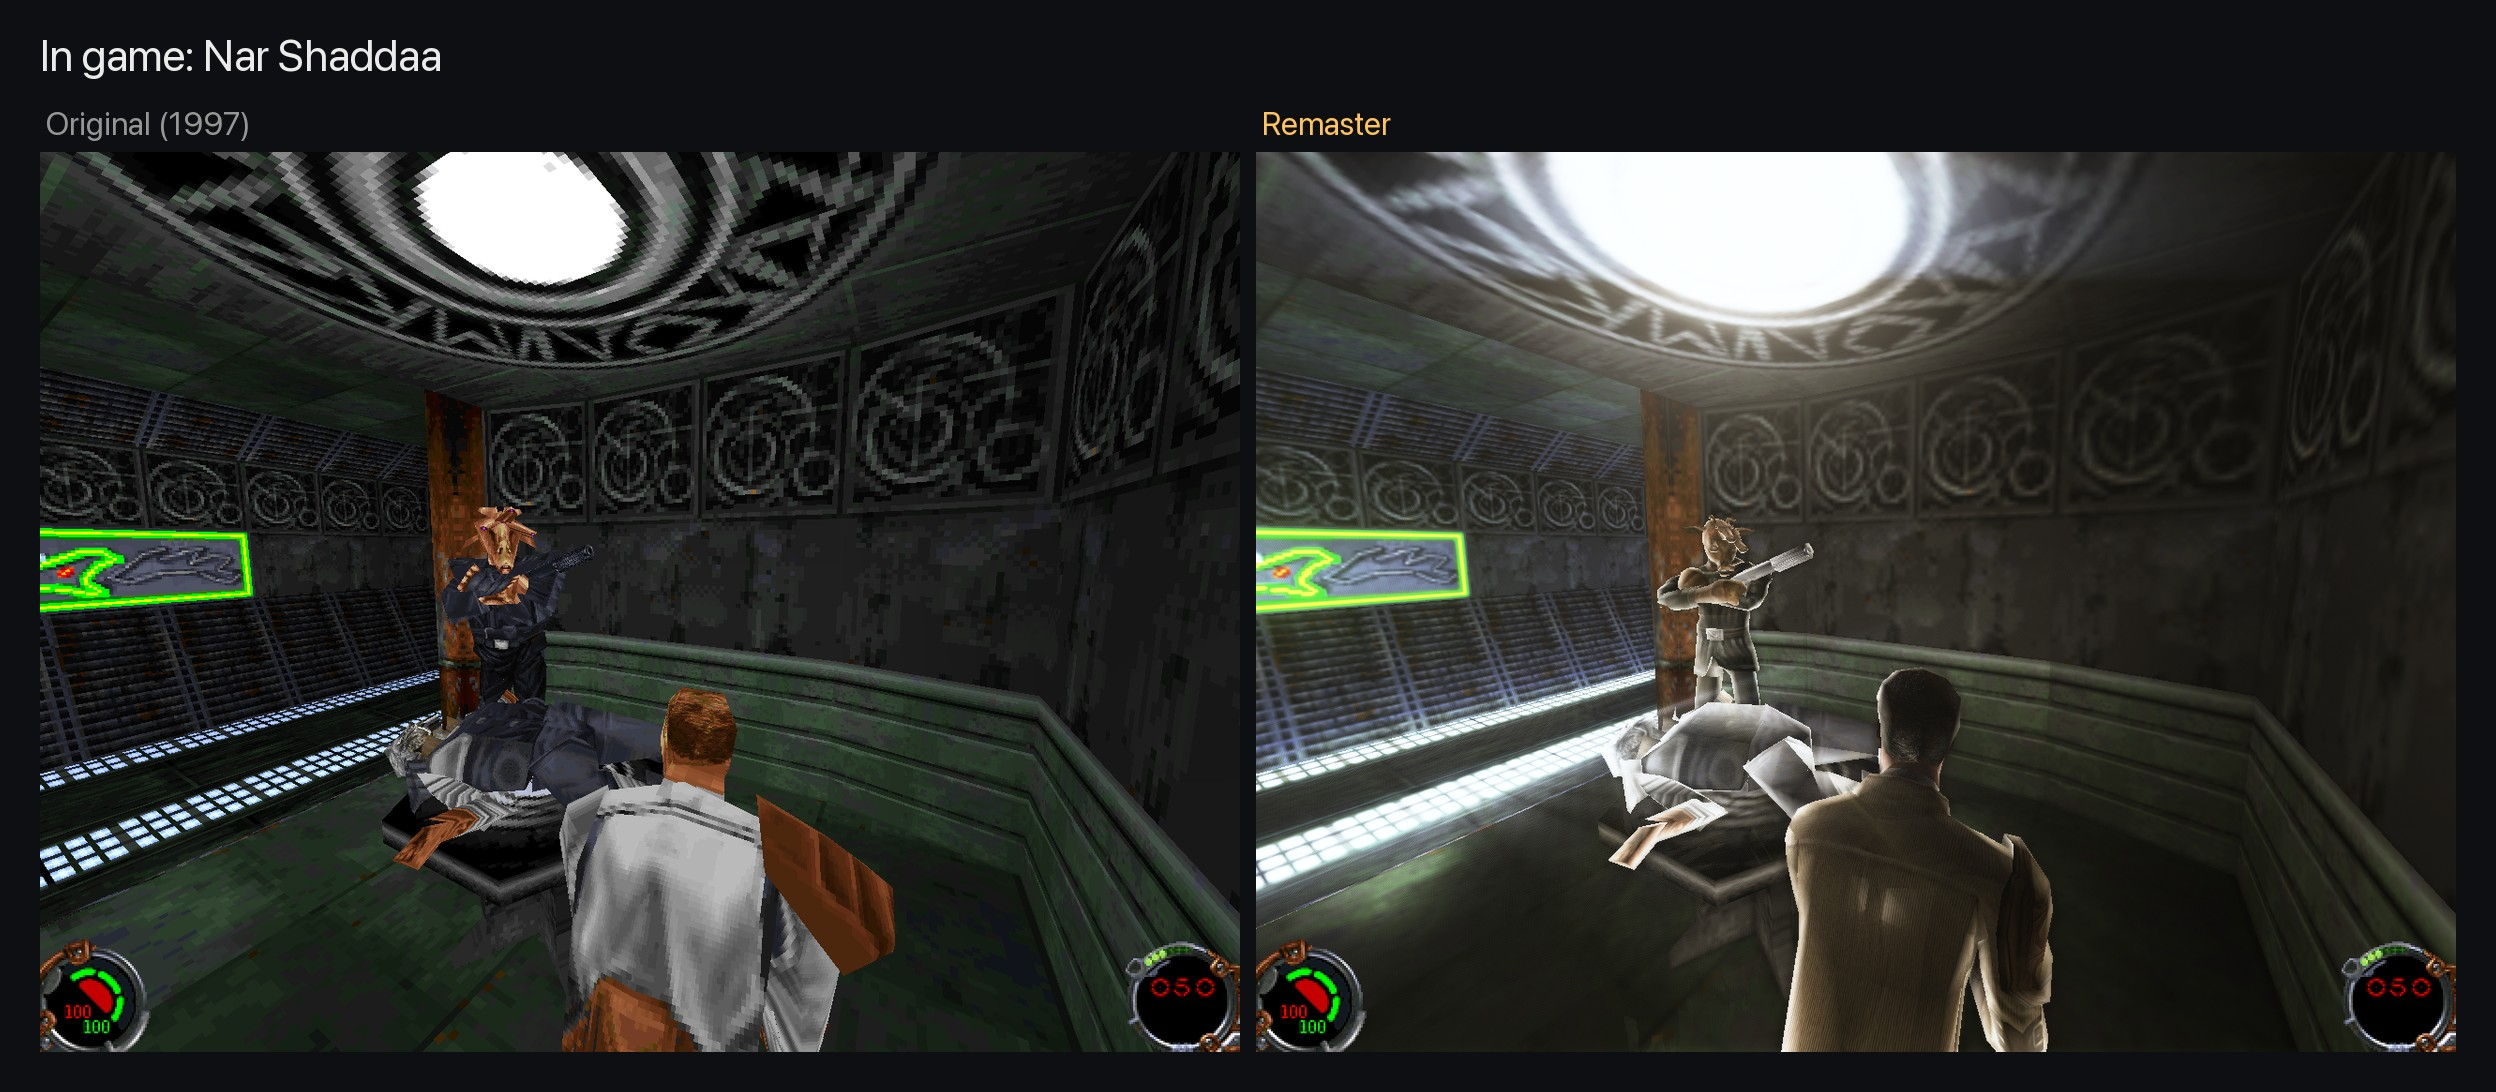
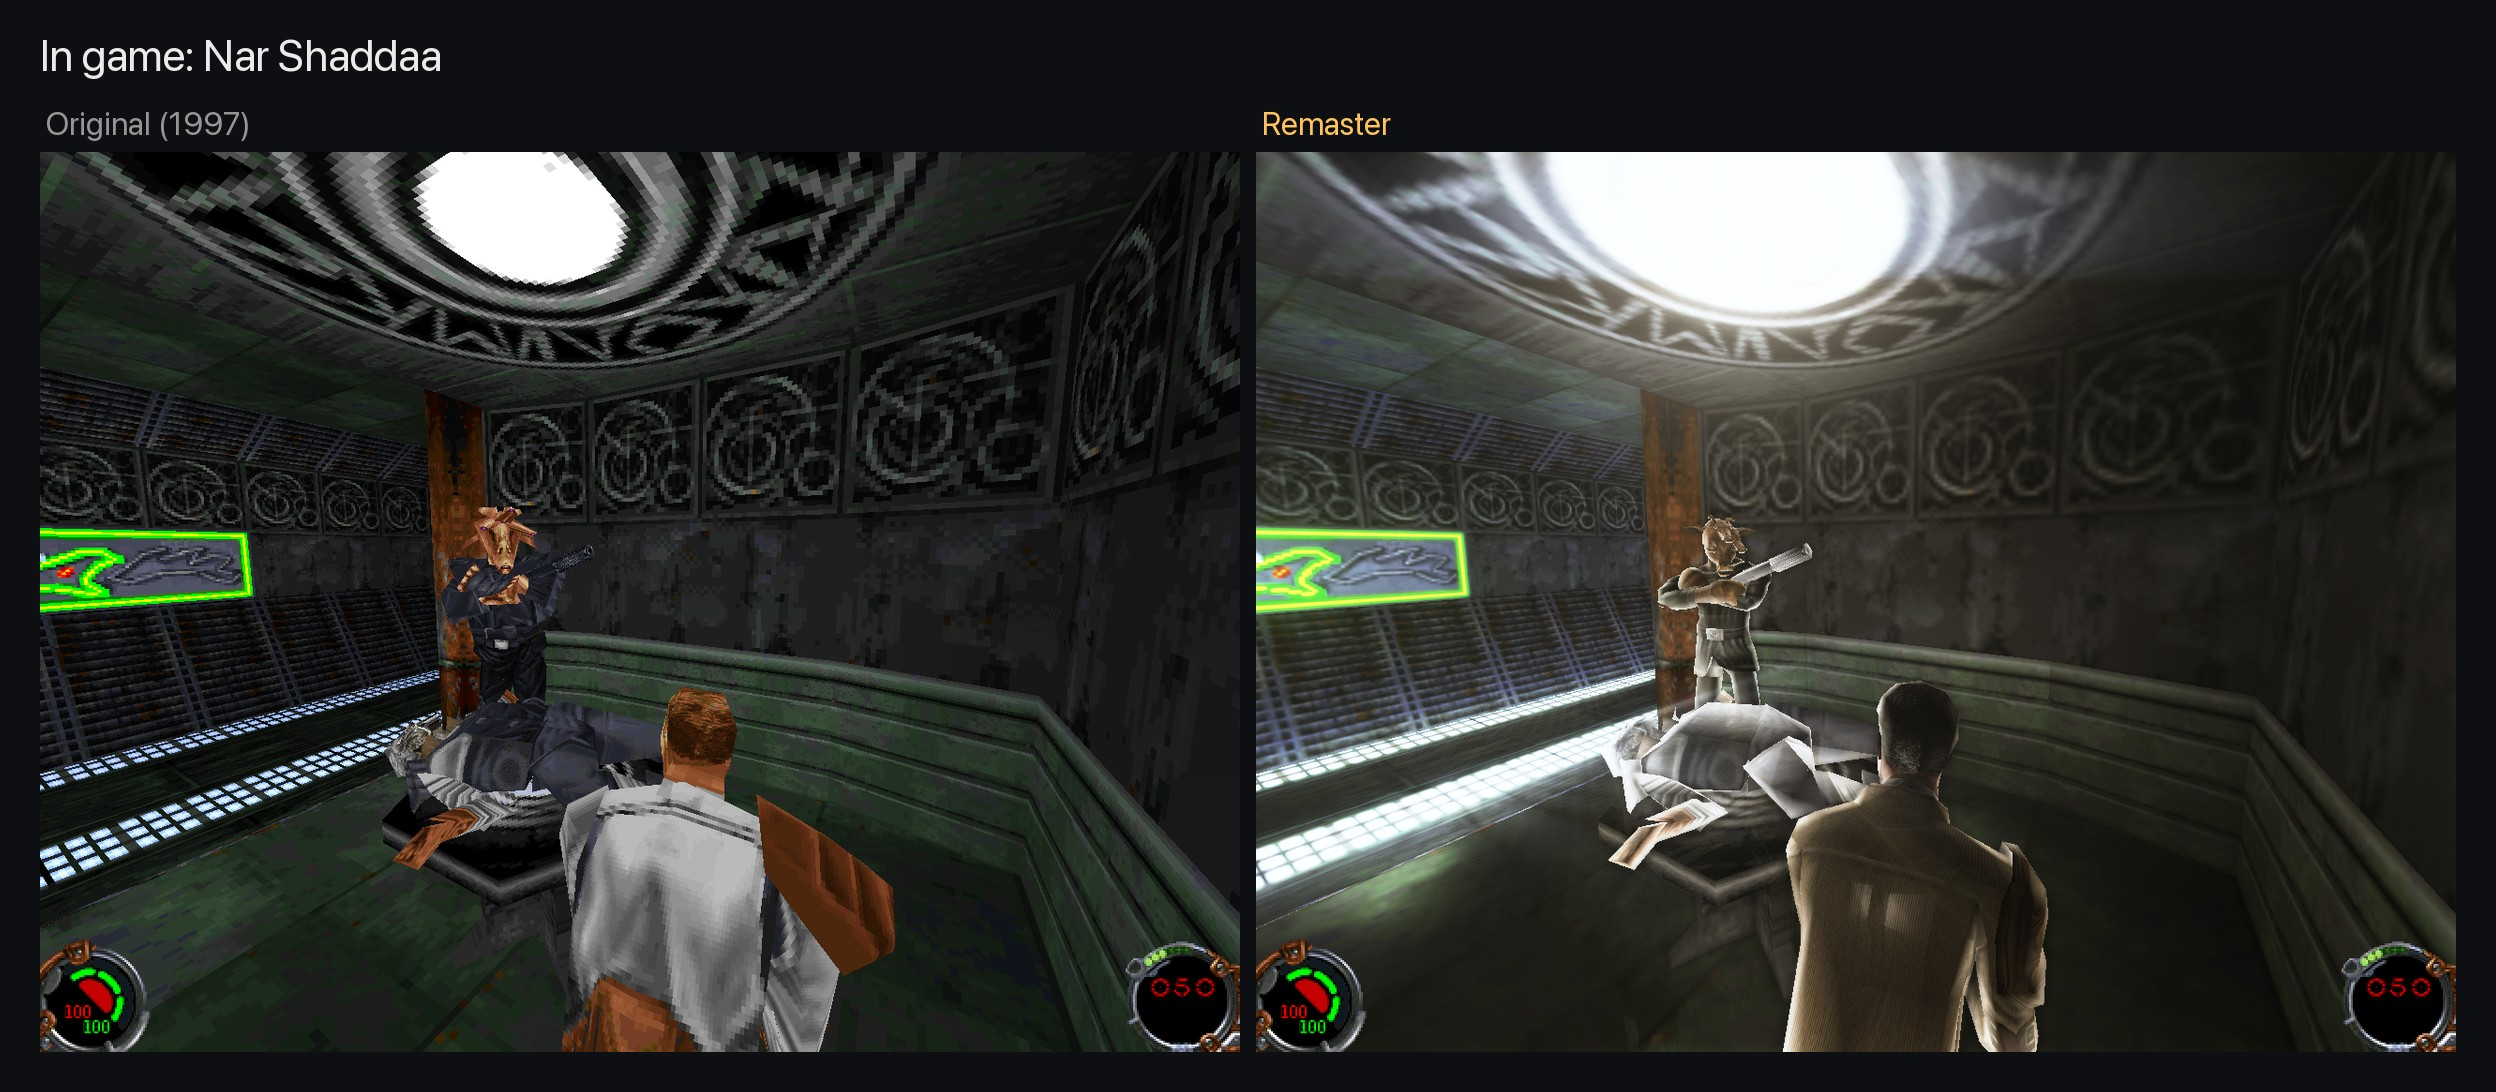
Atmosphere step 3: per-level height fog, distance fog, soft knee on fog light

diff --git a/src/Platform/GL/std3D.c b/src/Platform/GL/std3D.c
@@ -156,7 +156,7 @@ static GLuint std3D_fogTex[2] = {0, 0};
 static GLint std3D_fogU[16];
 static float std3D_fogCamPos[3];
 enum { FOGU_FINE, FOGU_COARSE, FOGU_FORIGIN, FOGU_FSIZE, FOGU_CORIGIN, FOGU_CSIZE, FOGU_PROJ, FOGU_SCREEN,
-       FOGU_WX, FOGU_WY, FOGU_WZ, FOGU_CAM, FOGU_FOG, FOGU_FOG2 };
+       FOGU_WX, FOGU_WY, FOGU_WZ, FOGU_CAM, FOGU_FOG, FOGU_FOG2, FOGU_HFOG };
 std3DSimpleTexStage std3D_shaftStage;
 static GLint std3D_shaftUniformNum = -1, std3D_shaftUniformPos = -1, std3D_shaftUniformCol = -1;
 // Added (remaster): volumetric sky (sithSky.c, sky_f.glsl). The cloud panorama is refreshed a
@@ -670,8 +670,8 @@ int init_resources()
     if (std3D_loadSimpleTexProgram("shaders/fog", &std3D_fogStage))
     {
         static const char* names[] = {"u_fine", "u_coarse", "u_fineOrigin", "u_fineSize", "u_coarseOrigin", "u_coarseSize",
-                                      "u_proj", "u_screen", "u_WX", "u_WY", "u_WZ", "u_camPos", "u_fog", "u_fog2"};
-        for (int k = 0; k < 14; k++) std3D_fogU[k] = std3D_tryFindUniform(std3D_fogStage.program, names[k]);
+                                      "u_proj", "u_screen", "u_WX", "u_WY", "u_WZ", "u_camPos", "u_fog", "u_fog2", "u_hfog"};
+        for (int k = 0; k < 15; k++) std3D_fogU[k] = std3D_tryFindUniform(std3D_fogStage.program, names[k]);
     }
     else std3D_fogStage.program = 0;
     if (!std3D_loadSimpleTexProgram("shaders/flare", &std3D_flareStage)) std3D_flareStage.program = 0; // Added (remaster)
@@ -3325,6 +3325,11 @@ void std3D_DrawSceneFbo()
             glUniform3fv(std3D_fogU[FOGU_CAM], 1, std3D_fogCamPos);
             glUniform4f(std3D_fogU[FOGU_FOG], jkPlayer_fogDensity, jkPlayer_fogGain, jkPlayer_fogMaxDist, (float)(SDL_GetTicks() % 1000000) / 1000.0f);
             glUniform4f(std3D_fogU[FOGU_FOG2], jkPlayer_fogNoise, 0.6f, 3.0f, 32.0f);
+            {
+                float hd, hz, hf;
+                sithAtmos_GetHeightFog(&hd, &hz, &hf);
+                glUniform4f(std3D_fogU[FOGU_HFOG], hd * jkPlayer_heightFog, hz, hf, 0.0f);
+            }
             glBlendFunc(GL_ONE, GL_SRC_ALPHA);
             std3D_DrawSimpleTex(&std3D_fogStage, pOut, std3D_pFb->tex4, 0, 0, 0.0, 0.0, 0.0, 0);
             for (int k = 0; k < 2; k++)

diff --git a/src/Engine/sithAtmos.c b/src/Engine/sithAtmos.c
@@ -7,6 +7,7 @@
 #include <stdio.h>
 #include <stdlib.h>
 #include <string.h>
+#include <strings.h>
 
 #include "jk.h"
 #include "World/sithWorld.h"
@@ -194,6 +195,38 @@ static void sithAtmos_Fill(const sithAtmosLevel* L, sithAtmosGrid* G, int dxy, i
         }
     }
     G->dirty = 1;
+}
+
+// Height fog per level (ground = the level's low floors, from tools: area-weighted floor heights).
+// Outdoor levels only: it sits in pits, canyons and city depths and hides the far terrain.
+typedef struct sithAtmosHeightFog { const char* level; float density, groundZ, falloff; } sithAtmosHeightFog;
+static const sithAtmosHeightFog sithAtmos_aHeightFog[] = {
+    {"01narshadda",   0.25f, -11.2f, 3.0f},   // the city's depths
+    {"02narshadda",   0.25f,  -9.7f, 3.0f},
+    {"04escapehouse", 0.20f, -15.4f, 2.5f},   // the ravine below the house
+    {"06abarons",     0.20f,  -0.7f, 0.8f},   // mist on the water
+    {"06bbarons",     0.20f,   2.1f, 2.0f},
+    {"09fuelstation", 0.30f, -20.8f, 4.0f},   // the canyon floor
+    {"10cargo",       0.10f,  -4.7f, 1.5f},
+    {"14tower",       0.30f,   0.2f, 2.0f},   // sea mist round the rock towers
+    {"15maw",         0.35f, -30.6f, 6.0f},   // the pit
+    {"18ascend",      0.25f,  -8.8f, 4.0f},
+};
+
+void sithAtmos_GetHeightFog(float* pDensity, float* pGroundZ, float* pFalloff)
+{
+    *pDensity = 0.0f; *pGroundZ = 0.0f; *pFalloff = 1.0f;
+    for (size_t i = 0; i < sizeof(sithAtmos_aHeightFog) / sizeof(sithAtmos_aHeightFog[0]); i++)
+    {
+        size_t n = strlen(sithAtmos_aHeightFog[i].level);
+        if (!strncasecmp(sithAtmos_worldName, sithAtmos_aHeightFog[i].level, n))
+        {
+            *pDensity = sithAtmos_aHeightFog[i].density;
+            *pGroundZ = sithAtmos_aHeightFog[i].groundZ;
+            *pFalloff = sithAtmos_aHeightFog[i].falloff;
+            return;
+        }
+    }
 }
 
 int sithAtmos_Update(const rdVector3* pCamPos, sithAtmosGrid** ppFine, sithAtmosGrid** ppCoarse)

diff --git a/src/World/jkPlayer.c b/src/World/jkPlayer.c
@@ -82,6 +82,7 @@ flex_t jkPlayer_fogDensity = 0.1;                          // per world unit
 flex_t jkPlayer_fogGain = 1.0;
 flex_t jkPlayer_fogMaxDist = 30.0;
 flex_t jkPlayer_fogNoise = 0.6;
+flex_t jkPlayer_heightFog = 1.0;                            // Added (remaster): scales each level's height fog preset
 flex_t jkPlayer_hazeDensity = 0.08;                         // Added (remaster): per world unit
 flex_t jkPlayer_hazeStrength = 1.0;                         // Added (remaster)
 int jkPlayer_bLightShafts = 0;                              // Added (remaster)
@@ -269,6 +270,7 @@ void jkPlayer_StartupVars()
     sithCvar_RegisterFlex("r_fogGain",                  1.0,                        &jkPlayer_fogGain,                  CVARFLAG_LOCAL);
     sithCvar_RegisterFlex("r_fogMaxDist",               30.0,                       &jkPlayer_fogMaxDist,               CVARFLAG_LOCAL);
     sithCvar_RegisterFlex("r_fogNoise",                 0.6,                        &jkPlayer_fogNoise,                 CVARFLAG_LOCAL);
+    sithCvar_RegisterFlex("r_heightFog",                1.0,                        &jkPlayer_heightFog,                CVARFLAG_LOCAL);
     sithCvar_RegisterFlex("r_hazeDensity",              0.08,                       &jkPlayer_hazeDensity,              CVARFLAG_LOCAL);
     sithCvar_RegisterFlex("r_hazeStrength",             1.0,                        &jkPlayer_hazeStrength,             CVARFLAG_LOCAL);
     sithCvar_RegisterBool("r_lightShafts",              0,                          &jkPlayer_bLightShafts,             CVARFLAG_LOCAL);

diff --git a/src/Engine/sithAtmos.h b/src/Engine/sithAtmos.h
@@ -28,4 +28,8 @@ typedef struct sithAtmosGrid
 // Returns 0 when the level has no light volume (the fog falls back to screen-space haze).
 int sithAtmos_Update(const rdVector3* pCamPos, sithAtmosGrid** ppFine, sithAtmosGrid** ppCoarse);
 
+// The current level's height fog: density at and below the ground height, the ground height
+// (world z) and how fast it thins with height (units). Density 0 = none (indoor levels).
+void sithAtmos_GetHeightFog(float* pDensity, float* pGroundZ, float* pFalloff);
+
 #endif // _SITHATMOS_H

diff --git a/src/World/jkPlayer.h b/src/World/jkPlayer.h
@@ -185,6 +185,7 @@ extern flex_t jkPlayer_fogDensity;
 extern flex_t jkPlayer_fogGain;
 extern flex_t jkPlayer_fogMaxDist;
 extern flex_t jkPlayer_fogNoise;
+extern flex_t jkPlayer_heightFog;
 extern int jkPlayer_bCinematicLight;
 extern flex_t jkPlayer_cineKey;
 extern flex_t jkPlayer_cineFill;

diff --git a/docs/DECISIONS.md b/docs/DECISIONS.md
@@ -637,3 +637,9 @@ Dom approved docs/stage2-atmosphere-plan.md. Branch `stage2-atmosphere`.
 **Bloom on light fixtures and lens flares** (Dom: "that overhead light needs to bloom and have some flares"). Bloom only read the emissive buffer (glow maps, sabers, sky), so ordinary bright textures like Nar Shaddaa's skylight never bloomed. Now level faces whose texture is near-white (luminance over 0.8) and lit to near full brightness feed bloom (`r_fixtureBloom` 1): skylights, lamps and light panels in every level. Characters are excluded (bright uniforms bloomed in the first try). New lens flare pass (`r_lensFlares`, in the remaster preset; `r_flareStrength` 1) on the bloom source: a cool anamorphic horizontal streak, four tinted ghosts through the screen centre and a faint halo. docs/screenshots/stage2-bloom-flares.jpg. All homepage comparisons recaptured with it.
 - Toned down (Dom): flare strength 0.4 (was 1), fixture bloom 0.6 (was 1).
 - Back-light rim too strong under white skylights (Dom: "makes it look like he's glowing"): it's now a thinner edge (rim^1.5) capped at 0.35 (was 0.6). The hangar's red floor edges are unchanged (that's the floor rim).
+
+**Atmosphere step 3: height fog and distance** (Dom: "lets move on", character shine is for the materials pass: roughness maps on the converted cast).
+- Height fog per level (`sithAtmos_aHeightFog` in sithAtmos.c; `r_heightFog` scales it): density at and below the level's ground height, thinning exponentially upwards. Ground heights come from area-weighted floor heights (the low 10 %): Nar Shaddaa's city depths -11, the fuel station canyon -21, the Maw's pit -31, Barons Hed's water -0.7, the tower's sea 0.2. Outdoor levels only; interiors and space levels get none.
+- Far fog: past the 30-unit march the rest of the way to the surface (up to 200 units) is added with the air at the end of the march, lighter (0.3 x) and at most half opaque, so distant terrain fades instead of staying sharp. The first version used full density and turned everything past ~300 m on the Maw solid white.
+- Soft knee on the fog's light, L / (1 + 0.6 L): open levels have bright air (the Maw ~1.65 vs the hangar's 0.2-0.4) and the fog went white, brighter than the surfaces behind it. Interiors barely change.
+- New showcase views: `maw`, `ascend`, `house`, `narpit`. The Maw is in the homepage gallery. The start views mostly don't look down into low ground, so height fog itself needs better views to judge (next: fog volumes placed in Blender, step 4).
